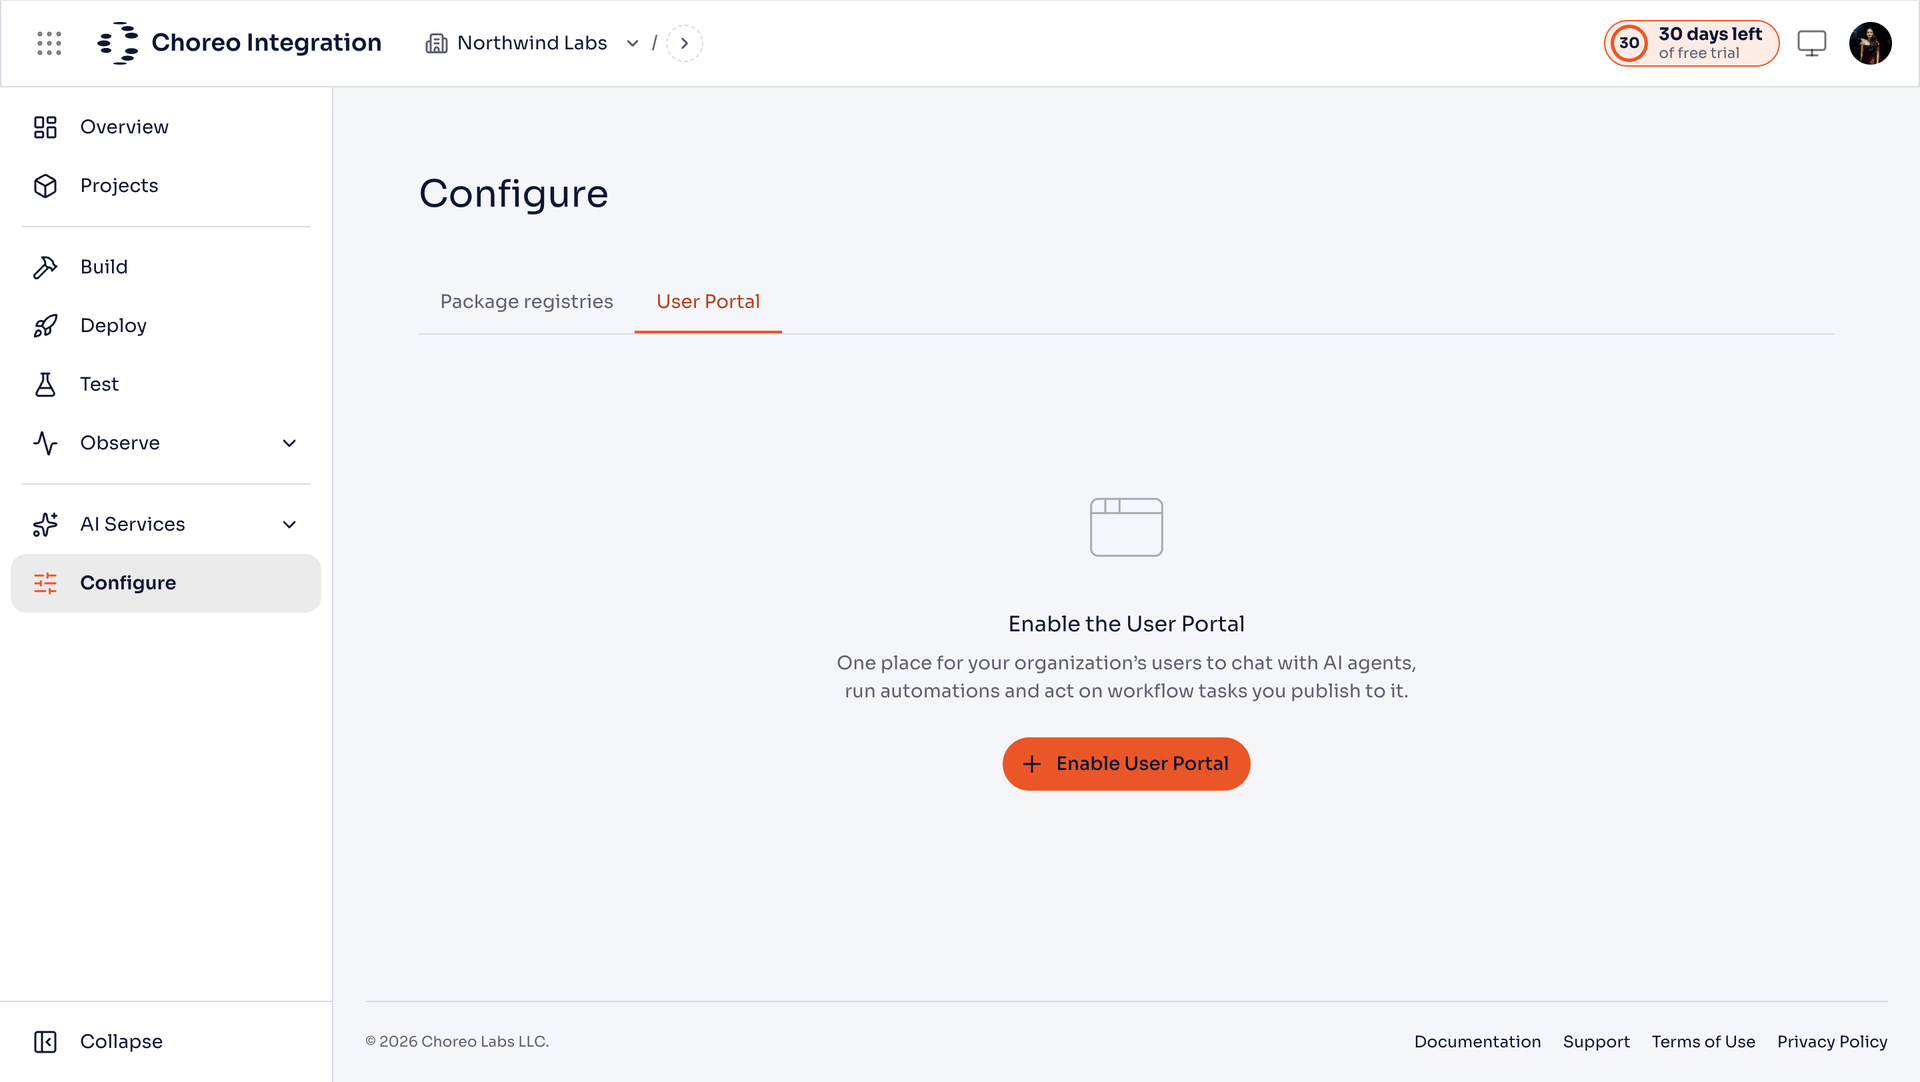
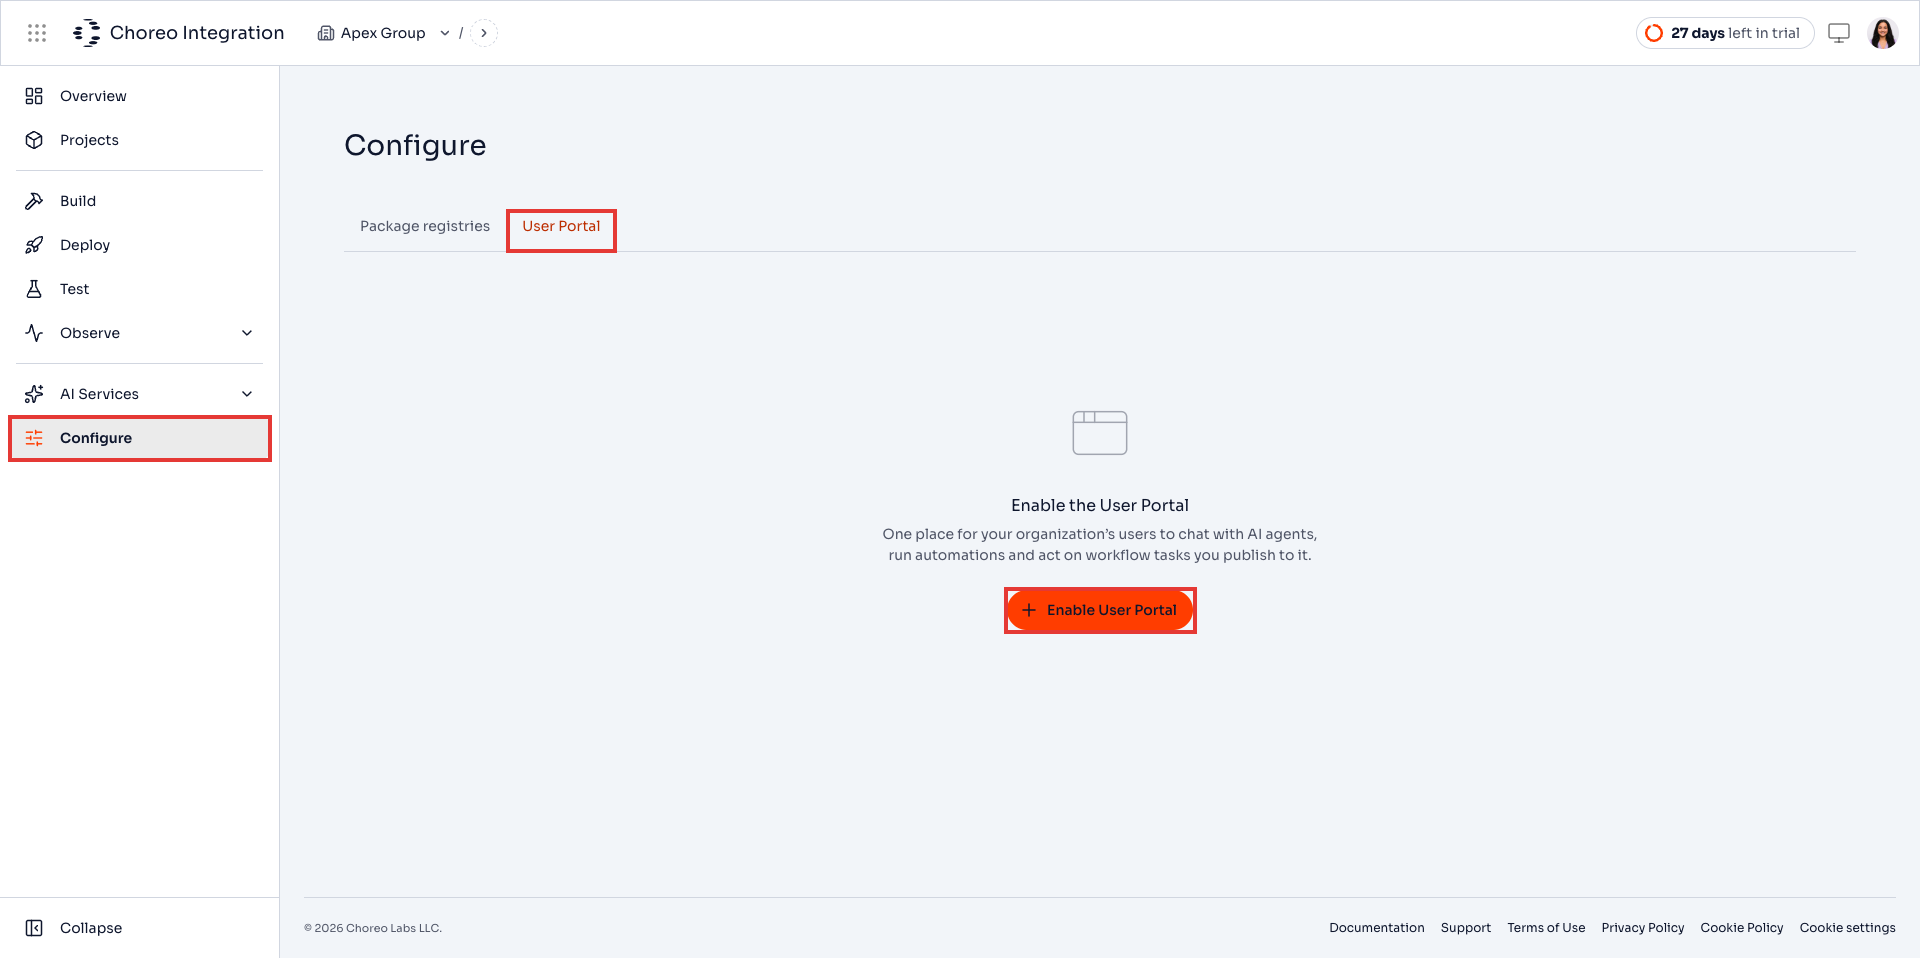
Update the Enable the User Portal screenshots and add the app menu screenshot

diff --git a/en/docs/manage/users-and-access/user-portal/user-portal.md b/en/docs/manage/users-and-access/user-portal/user-portal.md
@@ -55,6 +55,15 @@ If the Developer Portal has no key manager, you can also let the platform config
 1. Sign in to [Choreo Cloud](https://console.cloud.choreolabs.com).
 2. In the top navigation, click the organization list and select your organization.
 3. Click the app menu at the top left, then under **Categories**, click **Integration**.
+
+    <ThemedImage
+        alt="App menu with Integration highlighted under Categories"
+        sources={{
+            light: useBaseUrl('/img/manage/cloud/user-portal/select-integration.png'),
+            dark: useBaseUrl('/img/manage/cloud/user-portal/select-integration.png'),
+        }}
+    />
+
 4. In the left navigation menu, click **Configure**.
 5. Click the **User Portal** tab.
 
